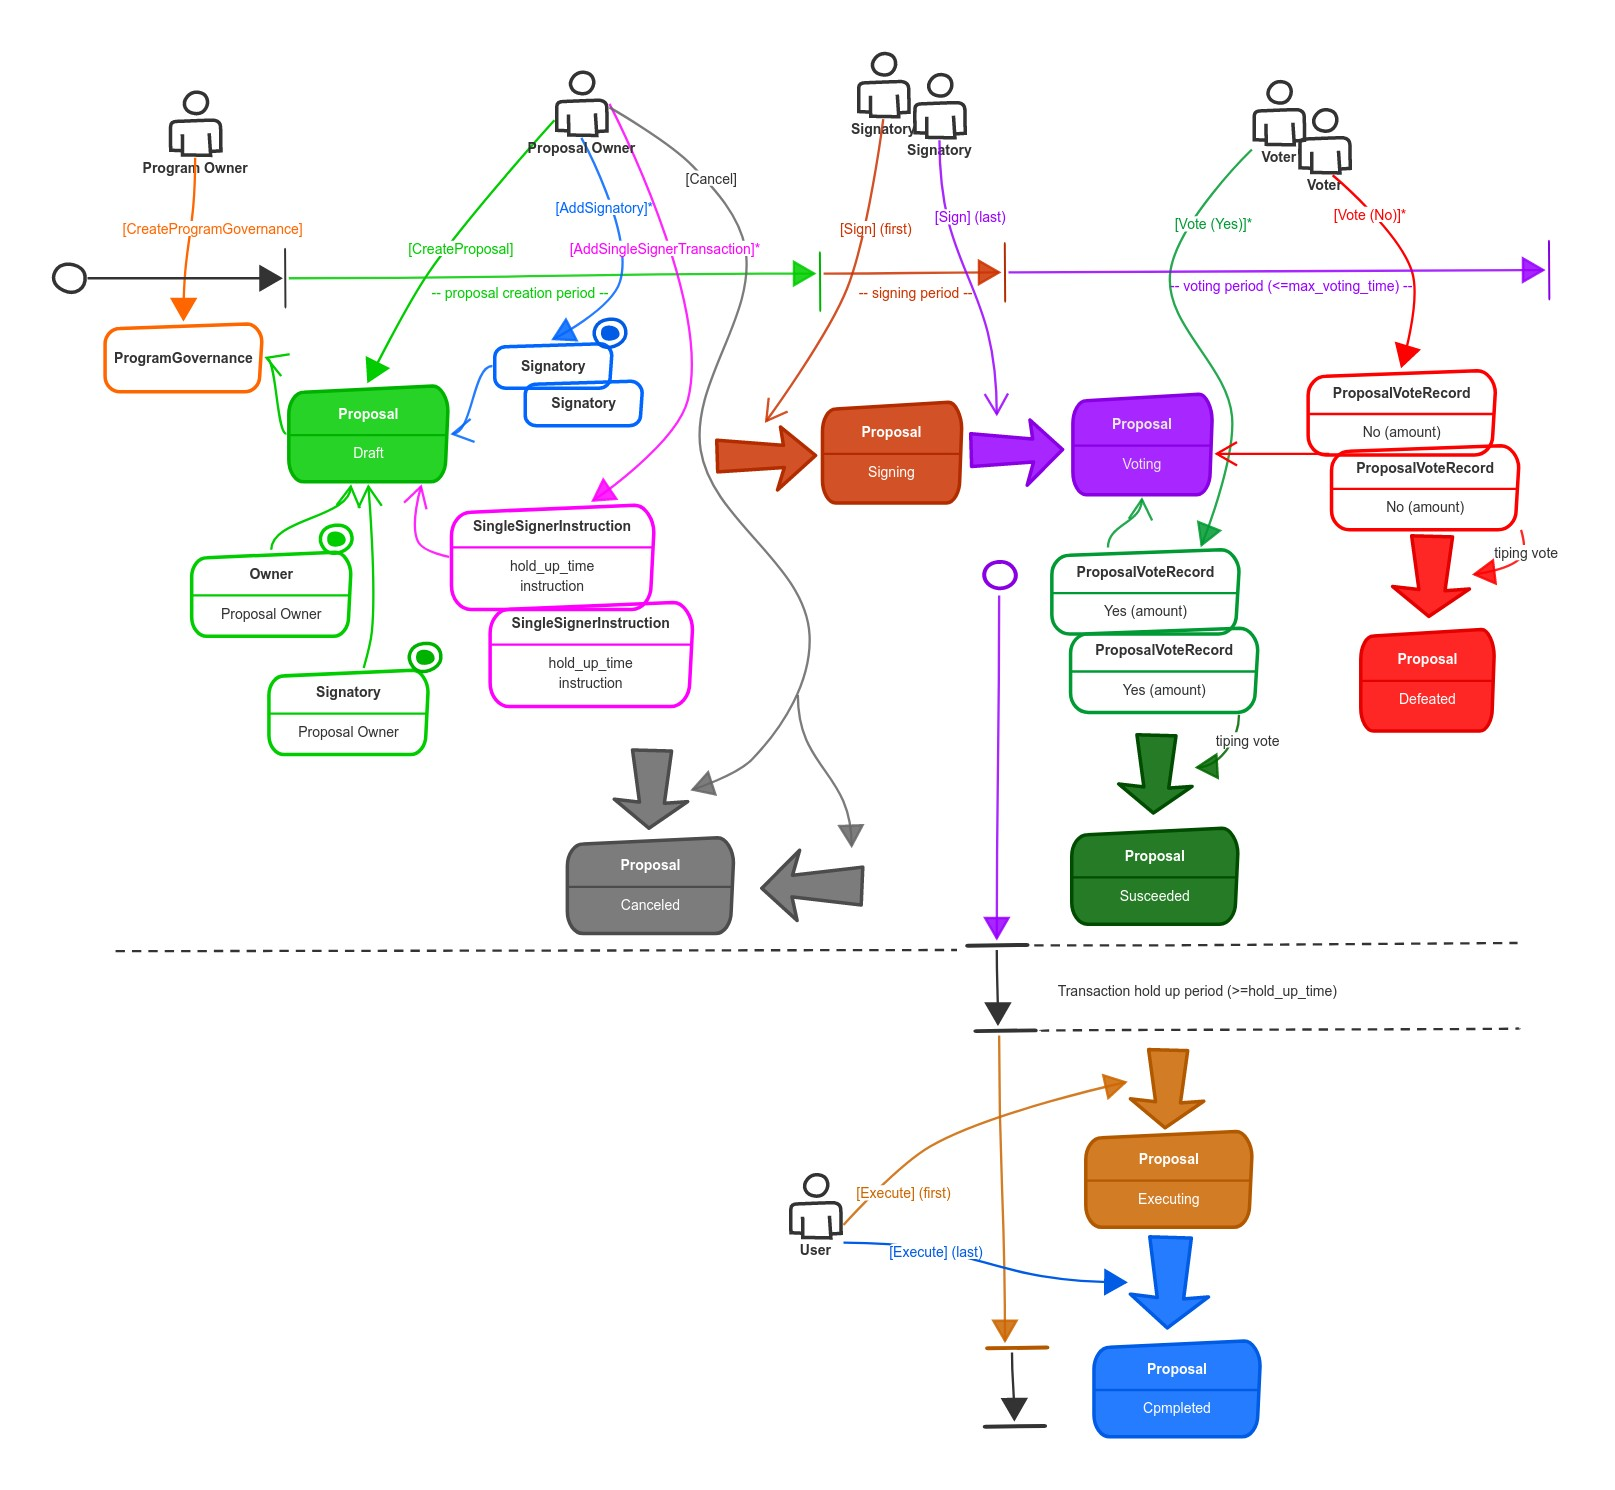
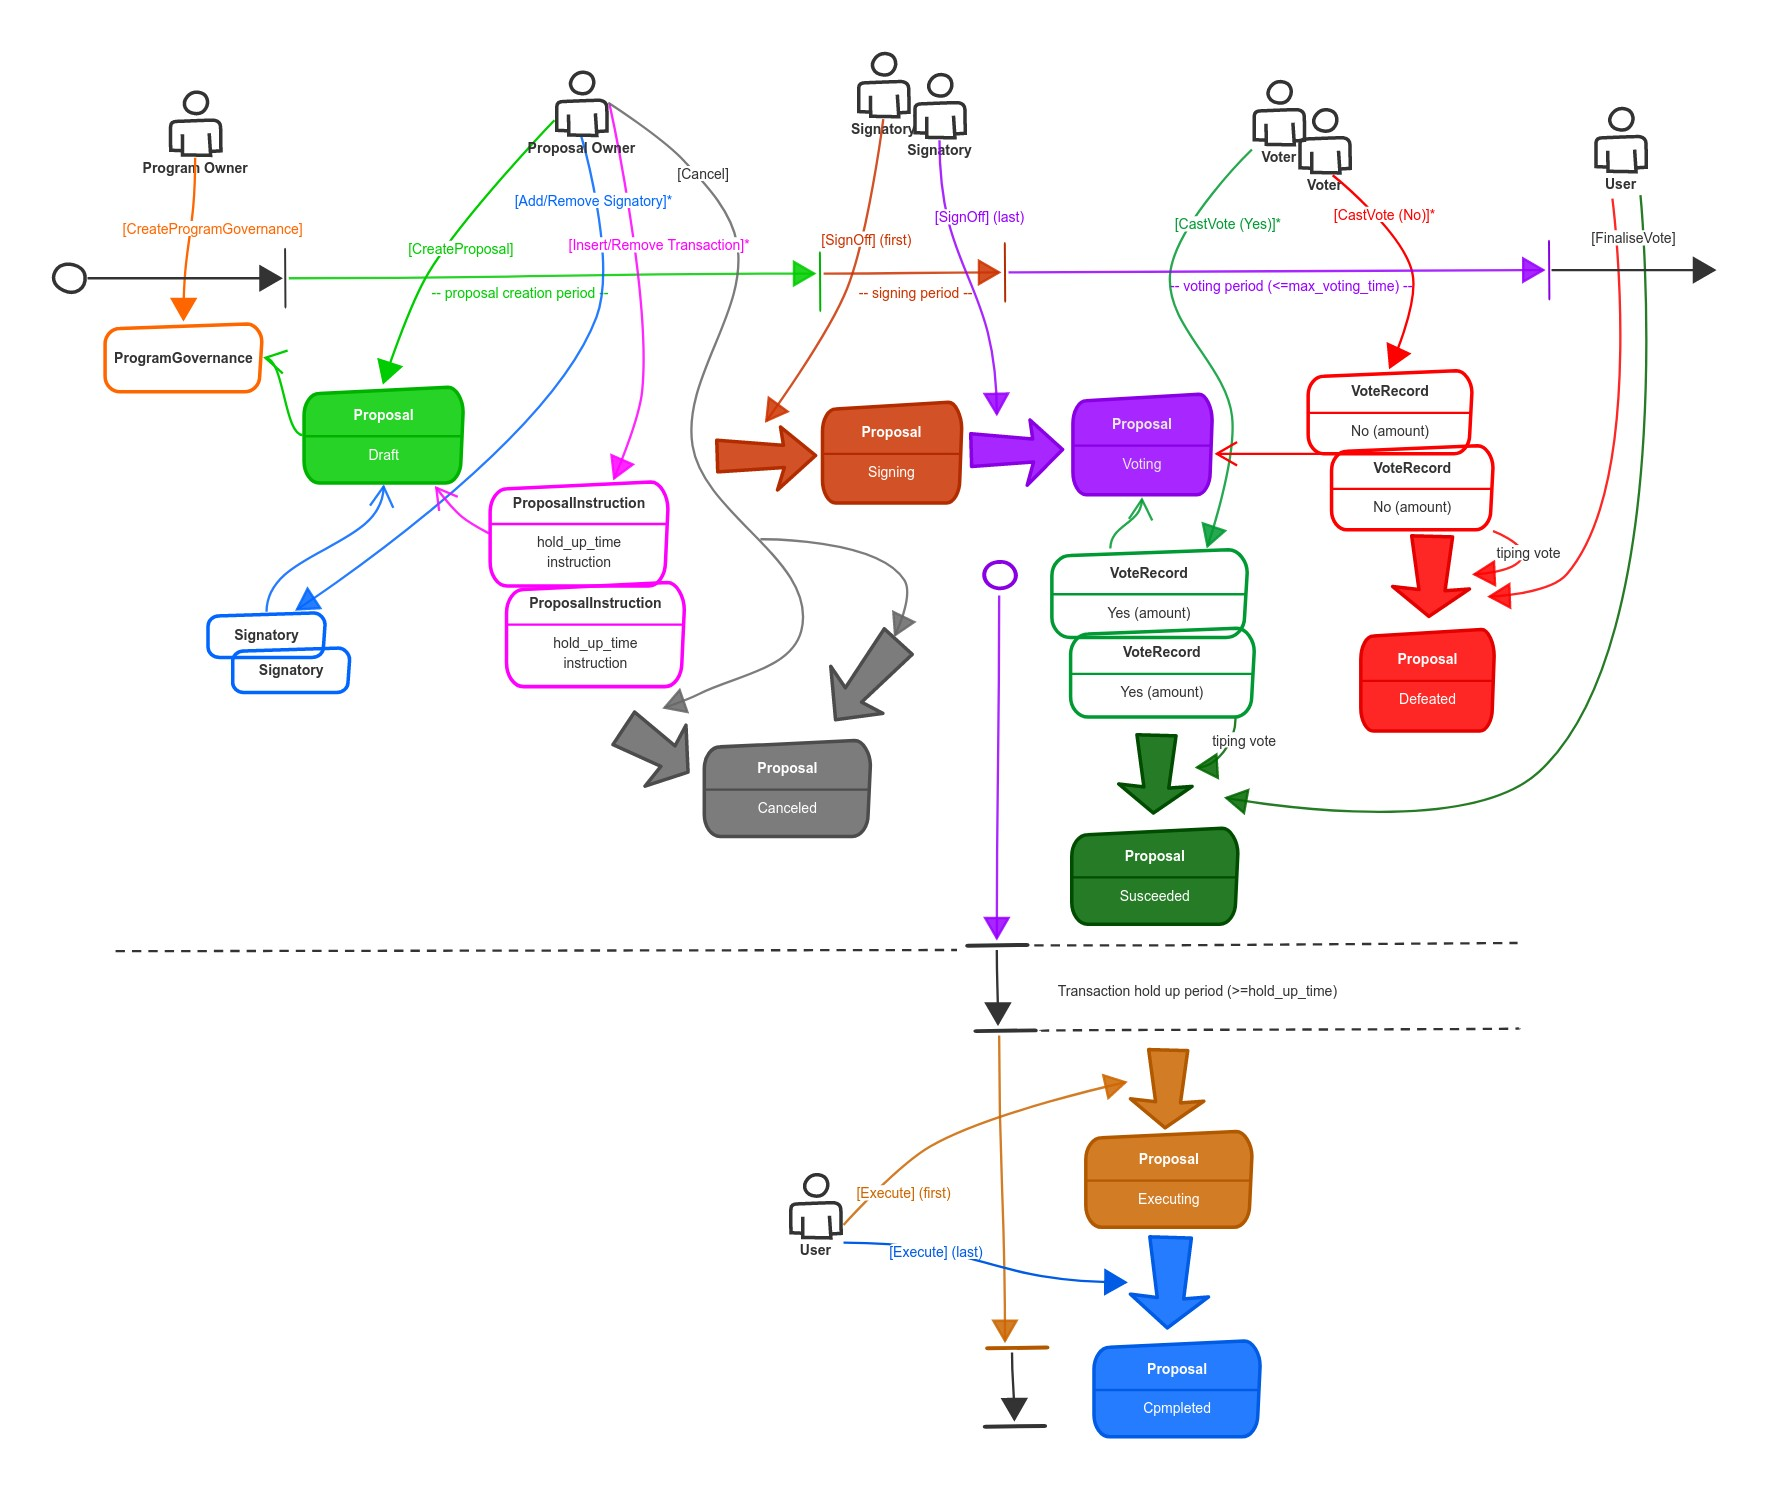
chore: update README

Changed region(s): [[0.0619, 0.0309, 0.9598, 0.9879], [0.031, 0.1544, 0.0619, 0.2161]]

diff --git a/governance/README.md b/governance/README.md
@@ -10,9 +10,9 @@ a voting population to vote on disbursement of access or funds collectively.
 
 ![Accounts diagram](./resources/governance-accounts.jpg)
 
-### Governance Realm account
+### Realm account
 
-Governance Realm ties Community Token Mint and optional Council Token mint to create a realm
+Realm account ties Community Token Mint and optional Council Token mint to create a realm
 for any governance pertaining to the community of the token holders.
 For example a trading protocol can issue a governance token and use it to create its governance realm.
 
@@ -24,20 +24,17 @@ use the deposited amount as their voting weight to vote on Proposals within that
 The basic building block of governance to update programs is the ProgramGovernance account.
 It ties a governed Program ID and holds configuration options defining governance rules.
 The governed Program ID is used as the seed for a [Program Derived Address](https://docs.solana.com/developing/programming-model/calling-between-programs#program-derived-addresses),
-and this program derived address is what is used as the address of the Governance account for your Program ID
-and the corresponding Governance mint and Council mint (if provided).
+and this program derived address is what is used as the address of the Governance account for your Program ID.
 
 What this means is that there can only ever be ONE Governance account for a given Program.
 The governance program validates at creation time of the Governance account that the current upgrade authority of the program
-taken under governance signed the transaction.
+taken under governance signed the transaction. Optionally `CreateProgramGovernance` instruction can also transfer `upgrade_authority`
+of the governed program to the Governance PDA at the creation time of the Governance account.
 
-Note: In future versions, once allowed in solana runtime, the governance program will take over the upgrade authority
-of the governed program when the Governance account is created.
-
-### How does authority work?
+### How does the authority work?
 
 Governance can handle arbitrary executions of code, but it's real power lies in the power to upgrade programs.
-It does this through executing commands to the bpf-upgradable-loader program.
+It does this through executing instructions to the bpf-upgradable-loader program.
 Bpf-upgradable-loader allows any signer who has Upgrade authority over a Buffer account and the Program account itself
 to upgrade it using its Upgrade command.
 Normally, this is the developer who created and deployed the program, and this creation of the Buffer account containing
@@ -48,31 +45,34 @@ However, in order for Governance to be useful, Governance now needs this authori
 ### Proposal accounts
 
 A Proposal is an instance of a Governance created to vote on and execute given set of changes.
-It is created by someone (Proposal Admin) and tied to a given Governance account
-and has a set of executable commands to it, a name and a description.
-It goes through various states (draft, voting, executing) and users can vote on it
+It is created by someone (Proposal Owner) and tied to a given Governance account
+and has a set of executable instructions to it, a name and a description.
+It goes through various states (draft, voting, executing, ...) and users can vote on it
 if they have relevant Community or Council tokens.
-It's rules are determined by the Governance account that it is tied to, and when it executes,
+Its rules are determined by the Governance account that it is tied to, and when it executes,
 it is only eligible to use the [Program Derived Address](https://docs.solana.com/developing/programming-model/calling-between-programs#program-derived-addresses)
 authority given by the Governance account.
 So a Proposal for Sushi cannot for instance upgrade the Program for Uniswap.
 
-When a Proposal is created by a user then the user becomes Proposal Admin and receives an Admin an Signatory token.
-With this power the Admin can add other Signatories to the Proposal.
-These Signatories can then add commands to the Proposal and/or sign off on the Proposal.
-Once all Signatories have signed off on the Proposal the Proposal leaves Draft state and enters Voting state.
+When a Proposal is created by a user then the user becomes Proposal Owner and receives permission to edit the Proposal.
+With this power the Owner can edit the Proposal, add/remove Signatories to the Proposal and also cancel it.
+These Signatories can then show their approval of the Proposal by signing it off.
+Once all Signatories have signed off the Proposal the Proposal leaves Draft state and enters Voting state.
 Voting state lasts as long as the Governance has it configured to last, and during this time
 people holding Community (or Council) tokens may vote on the Proposal.
-Once the Proposal is "tipped" it either enters the Defeated or Executing state.
-If Executed, it enters Completed state once all commands have been run.
+Once the Proposal is "tipped" it either enters the Defeated or Succeeded state. If the vote can't be tipped automatically
+during the voting period but still reaches the required Yes vote threshold it can be manually transitioned to Succeeded state
+using FinalizeVote instruction.
+Once all Proposal instructions are executed the Proposal enters Completed state.
 
-A command can be run by any one at any time after the `instruction_hold_up_time` length has transpired on the given command.
+In the Executing state an instruction can be run by any one at any time after the `instruction_hold_up_time` period has
+transpired.
 
-### SingleSignerInstruction
+### ProposalInstruction
 
-We only support one kind of executable command right now, and this is the `SingleSignerInstruction` type.
-A Proposal can have a certain number of these, and they run independently of each other.
-These contain the actual data for a command, and how long after the voting phase a user must wait before they can be executed.
+A Proposal can have multiple Proposal Instructions, and they run independently of each other.
+These contain the actual data for an instruction, and how long after the voting phase a user must wait before they can
+be executed.
 
 ### Voting Dynamics
 
@@ -80,7 +80,7 @@ When a Proposal is created and signed by its Signatories voters can start voting
 equal to deposited governing tokens into the realm. A vote is tipped once it passes the defined `vote_threshold` of votes
 and enters Succeeded or Defeated state. If Succeeded then Proposal instructions can be executed after they hold_up_time passes.
 
-Users can relinquish their vote any time during Proposal lifetime, but once Proposal it tipped their vote can't be changed.
+Users can relinquish their vote any time during Proposal lifetime, but once Proposal it decided their vote can't be changed.
 
 ### Community and Councils governing tokens
 
